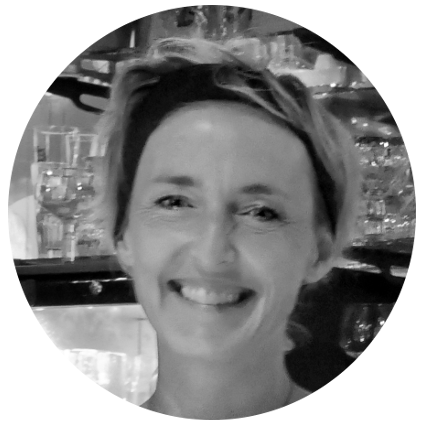
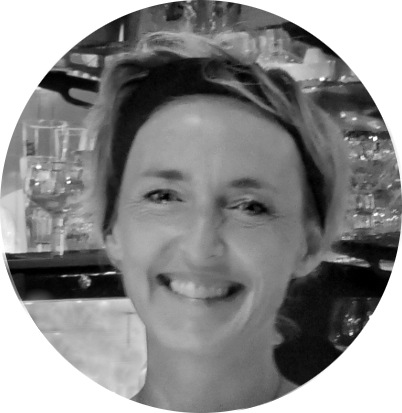
colors and features

diff --git a/src/App.css b/src/App.css
@@ -19,72 +19,40 @@ body {
   display: flex;
   width: 100vw;
   min-height: 100vh;
+  background-color: rgb(0, 160, 176, 0.6);
 }
 h1 {
   font-family: "Saira", sans-serif;
 }
 /* .condiv class is for the right side content container*/
 .condiv {
-  background-color: #ffffff;
+  background-color: #f0eee9;
   margin: 10% 5% 10% 5%;
   width: 100vw;
-  height: 100vh;
+  height: 150vh;
 }
 .condiv-home {
-  margin: 10% 5% 10% 5%;
+  margin: 5% 5% 5% 5%;
+  background-color: #CF5C78;
+
+}
+.typingeffect {
+  font-size: 1.8rem;
+  font-weight: bold;
+  float: left;
+  color:#ffffff;
 }
 nav {
   padding: 60px 30px 0px 30px;
   display: flex;
   text-decoration: none;
   font-family: "Saira", sans-serif;
- 
- background: linear-gradient(
-    270deg,
-    #00050d,
-    #1b3140,
-    #245e75,
-    #1e91a9,
-    #12c7d8
-  );
-  background-size: 75% 50%;
+  background-color: #f5df4d;
+  height: 100vw;
+  width: auto;
+  
+  z-index: 9;
 
-  -webkit-animation: AnimationName 13s ease infinite;
-  -moz-animation: AnimationName 13s ease infinite;
-  animation: AnimationName 13s ease infinite;
-}
-@-webkit-keyframes AnimationName {
-  0% {
-    background-position: 0% 74%;
-  }
-  50% {
-    background-position: 100% 27%;
-  }
-  100% {
-    background-position: 0% 74%;
-  }
-}
-@-moz-keyframes AnimationName {
-  0% {
-    background-position: 0% 74%;
-  }
-  50% {
-    background-position: 100% 27%;
-  }
-  100% {
-    background-position: 0% 74%;
-  }
-}
-@keyframes AnimationName {
-  0% {
-    background-position: 0% 74%;
-  }
-  50% {
-    background-position: 100% 27%;
-  }
-  100% {
-    background-position: 0% 74%;
-  }
 }
 nav ul li a {
   text-decoration: none;
@@ -103,32 +71,105 @@ nav ul li {
   text-decoration: none;
   color: white !important;
 }
+.widecard {
+  box-shadow: 60px -16px #939597;
+  margin: 6vw;
+  text-decoration: none;
+  text-align: center;
+}
 /* css for active class */
 .active {
   font-weight: bolder;
+  color: #939597;
 }
 .logo-skills {
   width: 50%;
   height: auto;
   display: inline-flex;
   flex-wrap: wrap;
-  gap: 3rem;
-  margin-top: 5rem;
+  gap: 2.5rem;
+  margin-top: 3rem;
+  margin-left: 2rem;
+  box-shadow: 0px 4px 12px #cf5c78;
 }
 
 .list-skills {
-  list-style-type: circle;
+  list-style-image: url("./img/target.png");
 }
 
 .social {
-  width: 50%;
   position: absolute;
-  margin-top: 20px;
   display: flex;
-  bottom: 60px;
   justify-content: space-between;
-}
 
+  z-index: 1;
+  padding-left: 25%;
+  top: 35%;
+  width: 50vw;
+}
+.social-logo {
+  width: auto;
+  height: 15vh;
+}
+.insta {
+  width: auto;
+  height: 15vh;
+}
+.pomodoro {
+  width: 20vw;
+  height: auto;
+  box-shadow: 0px 4px 12px #00589b;
+  padding: 2vw;
+  margin: 2vw;
+}
+.condiv-contact {
+  display: inline-block;
+  position: relative;
+  width: 100vw;
+  height: 100vh;
+}
+.contact-phone {
+  width: auto;
+  height: 100vw;
+
+}
+.subtopic {
+  background: rgba(0, 0, 0, 0.5);
+  z-index: 1;
+  position: absolute;
+  text-align: center;
+  top: 8%;
+  color: white;
+  width: 100vw;
+}
+.email {
+  background: rgba(0, 0, 0, 0.5);
+  z-index: 1;
+  position: absolute;
+  text-align: center;
+  top: 25%;
+  color: white;
+  width: 100%;
+}
+#profil{
+  transform-origin: 50% 50%;
+}
+ 
+@keyframes rotating {
+    from{
+        -webkit-transform: rotate(0deg);
+    }
+    to{
+        -webkit-transform: rotateY(360deg);
+    }
+}
+ 
+.profilepic {
+    animation: rotating 5s linear infinite;
+    animation-duration: 4s;
+    animation-delay: 2s;
+    animation-iteration-count: 3;
+}
 
 @media only screen and (max-width: 1024px) {
   .social {
@@ -146,54 +187,56 @@ nav ul li {
     height: auto;
     padding: 0px 0px 0px 0px;
     margin-left: 0;
-  
   }
- 
+  .condiv-contact {
+    display: flex;
+    flex: nowrap;
+    position: relative;
+    width: 100%;
+    height: 100%;
+  }
+
   nav ul {
     margin: 0;
     width: 100%;
     height: 100%;
     padding-right: 50%;
-    font-size: 0.8rem;
+    font-size: 0.9rem;
     text-align: center;
     justify-content: center;
     float: none;
   }
   .social {
-justify-content: space-between;
-   
+    justify-content: space-between;
   }
-  .social-logo{
+  .social-logo {
     width: auto;
-    height: 65%;
+    height: 100%;
   }
-  .insta{
+  .insta {
     width: auto;
     height: 3.8vh;
-
   }
   .App {
     display: flex;
     width: 100%;
     height: auto;
-   
   }
   .logo-skills {
-
     flex-wrap: wrap;
     width: 50vw;
     height: auto;
   }
-  .logo{
+  .logo {
     width: auto;
-    height:6vw;
+    height: 8vw;
   }
 
   h1 h2 h3 h4 {
-    font-size: 0.8rem;
+    font-size: 0.3rem;
   }
   p {
-    font-size: 1rem;
+    font-size: 0.7rem;
   }
   .profilepic {
     width: 80%;
@@ -201,35 +244,32 @@ justify-content: space-between;
     margin-right: 10%;
     margin-left: 10%;
     margin-top: 10%;
-  }
+   
 
+  }
 
   .nav li {
     float: left;
   }
 
   .typingeffect {
-   font-size: 1rem;
-   font-weight: bold;
-  float: right;
+    font-size: 1rem;
+    font-weight: bold;
+    float: right;
   }
-  .link-education{
+  .link-education {
     text-decoration: none;
     padding: 5rem;
   }
-  .condiv{
+  .condiv {
     width: 100vw;
     height: 100vh;
-  
   }
-  .pomodoro{
+  .pomodoro {
     width: 35vw;
     height: auto;
   }
-  .link-project{
+  .link-project {
     float: right;
   }
 }
-
-
-

diff --git a/src/content/Home.js b/src/content/Home.js
@@ -1,16 +1,16 @@
 import React, { Component } from 'react';
 import ReactTypingEffect from 'react-typing-effect';
 import profilepic from '../img/medailloncv.png';
-import Social from '../components/Social';
+
 
 
 class Home extends Component {
     render() {
         return (
             <div className="condiv-home">
-                <img src={profilepic} className="profilepic" alt="me" width="300" height="300" ></img>
+                <img src={profilepic} id = "profil" className="profilepic" alt="me" width="300" height="300" ></img>
                 <ReactTypingEffect className="typingeffect" text={['I am Corduant Patricia', 'I am a web developer']} speed={200} eraseDelay={500} />
-                <Social />
+            
 
             </div>
 

diff --git a/src/content/contact.js b/src/content/contact.js
@@ -1,14 +1,17 @@
 import React, { Component } from 'react';
 import Social from '../components/Social';
+import contactphone from '../img/phone.jpg';
 class Contact extends Component {
 render() {
 return (
-<div className="condiv">
+ 
+<div className="condiv-contact">
+    <img src={contactphone} className="contact-phone" alt="contact" width="" height="" ></img>
 <h1 className="subtopic">Contact Me</h1>
-<h3>Email  :   patricia.corduant@gmail.com</h3>
-<h3>Instagram   :   @patriciacorduant</h3>
+<h3 className="email">Email  :   patricia.corduant@gmail.com</h3>
 <Social />
 </div>
+
 )
 }
 }

diff --git a/src/content/education.js b/src/content/education.js
@@ -4,7 +4,7 @@ class Education extends Component {
 render() {
 return (
 <div className="condiv">
-<h1 className="subtopic">My Education</h1>
+<h1 className="education">My Education</h1>
 <a class = "link-education" href = "https://becode.org"><Widecard title="BeCode.org" where="Charleroi - Belgium" from="Jan 2021" to="Present"/></a>
 <a class = "link-education" href = "http://www.stluc-bruxelles-esa.be/"><Widecard title="Institut pour l'architecture Saint-Luc" where="Brussels - Belgium" from="2001" to="2004"/></a>
 </div>

diff --git a/src/content/About.js b/src/content/About.js
@@ -3,7 +3,7 @@ class About extends Component {
     render() {
         return (
             <div className="condiv">
-                <h1 className="subtopic">About Me</h1>
+                <h1 className="about">About Me</h1>
                 <h4>Hey there,</h4>
                 <h1>I'm Corduant Patricia</h1>
                 <h3>Junior Web <u>Developer</u> | UI/UX <u>Designer</u></h3>

diff --git a/src/content/skills.js b/src/content/skills.js
@@ -10,7 +10,7 @@ class Skills extends Component {
     render() {
         return (
             <div className="condiv skills">
-                <h1 className="subtopic">
+                <h1 className="skills">
                     My skills and the tools I play with</h1>
                 <ul class = "list-skills">
                     {this.state.myskills.map((value) => {

diff --git a/src/App.js b/src/App.js
@@ -9,6 +9,7 @@ import Skills from './content/skills';
 import Contact from './content/contact';
 import Projects from './content/projects';
 
+
 function App() {
     return (
         <Router>
